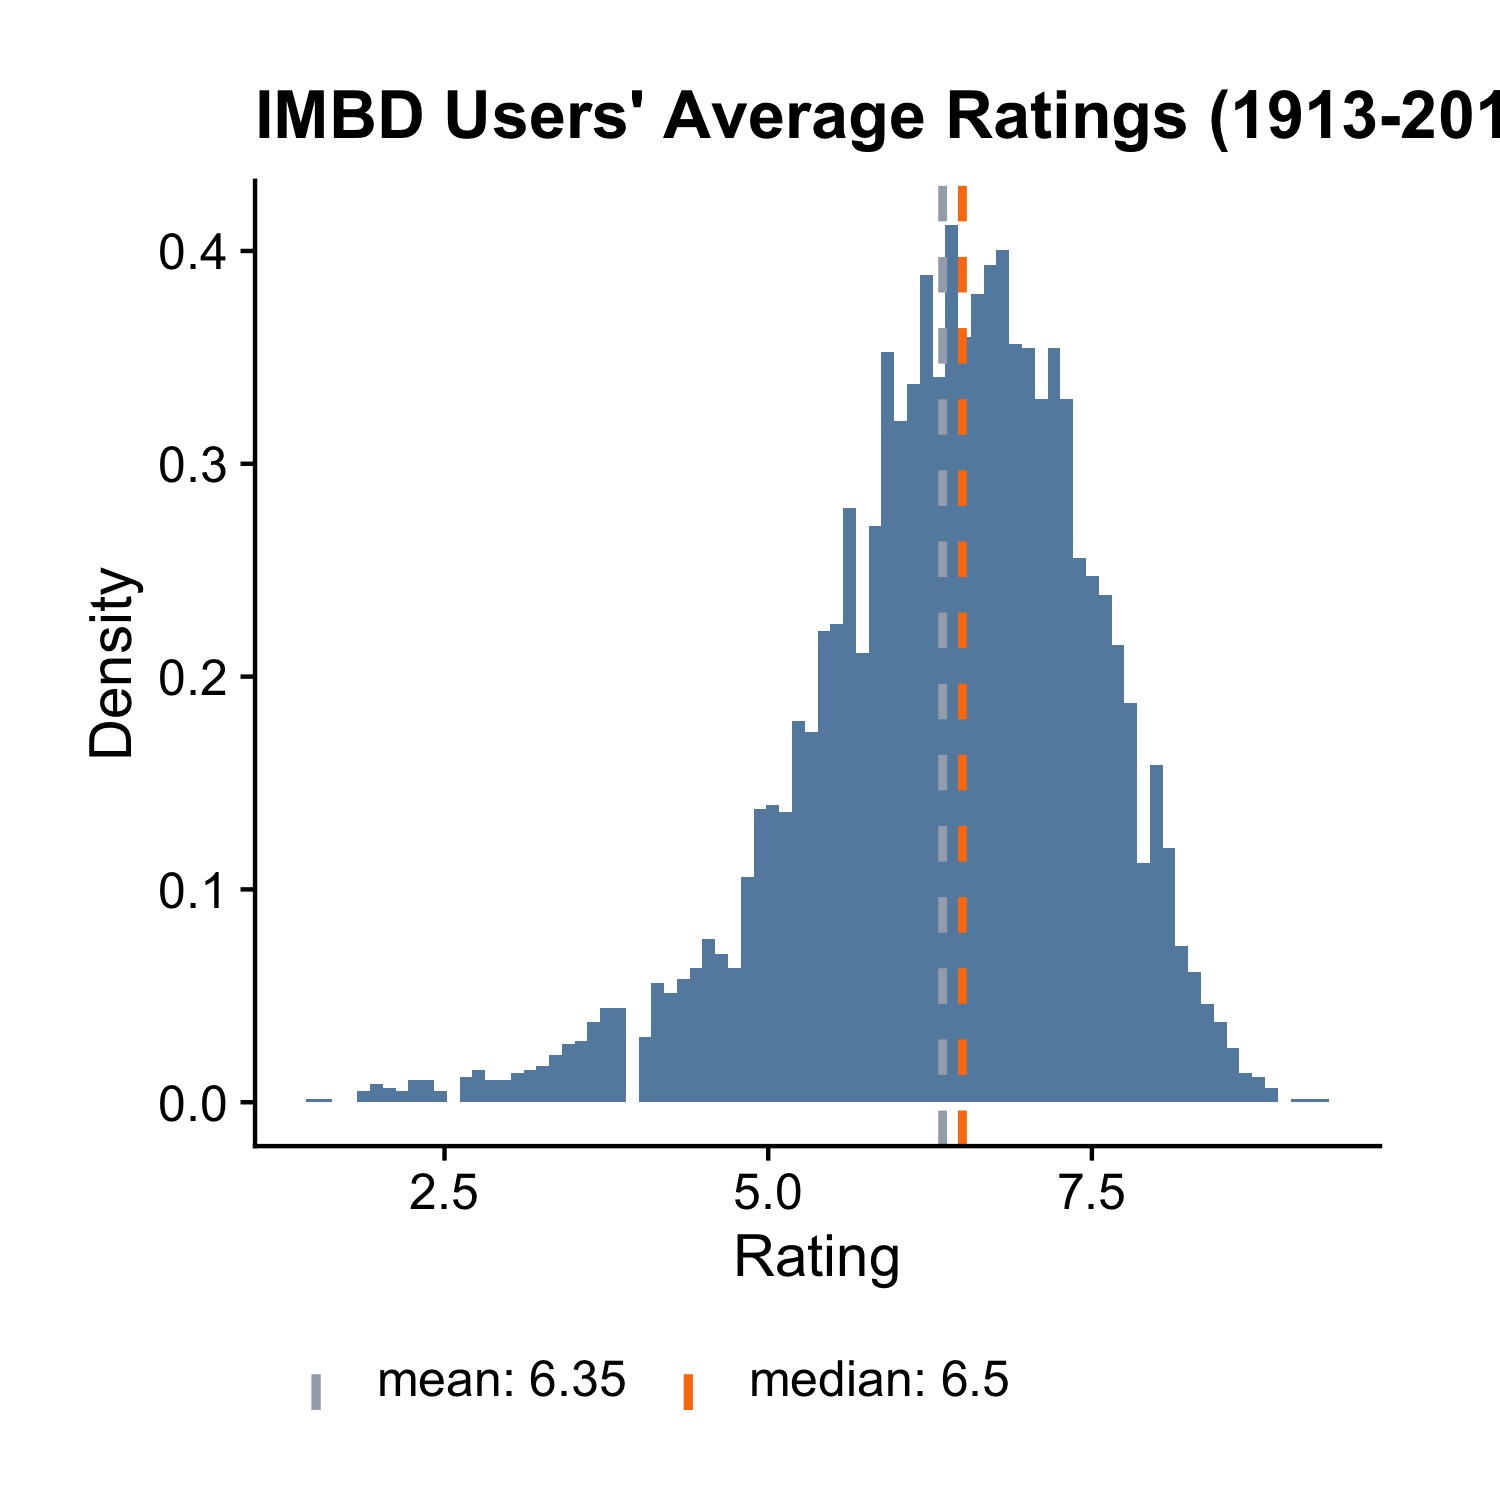
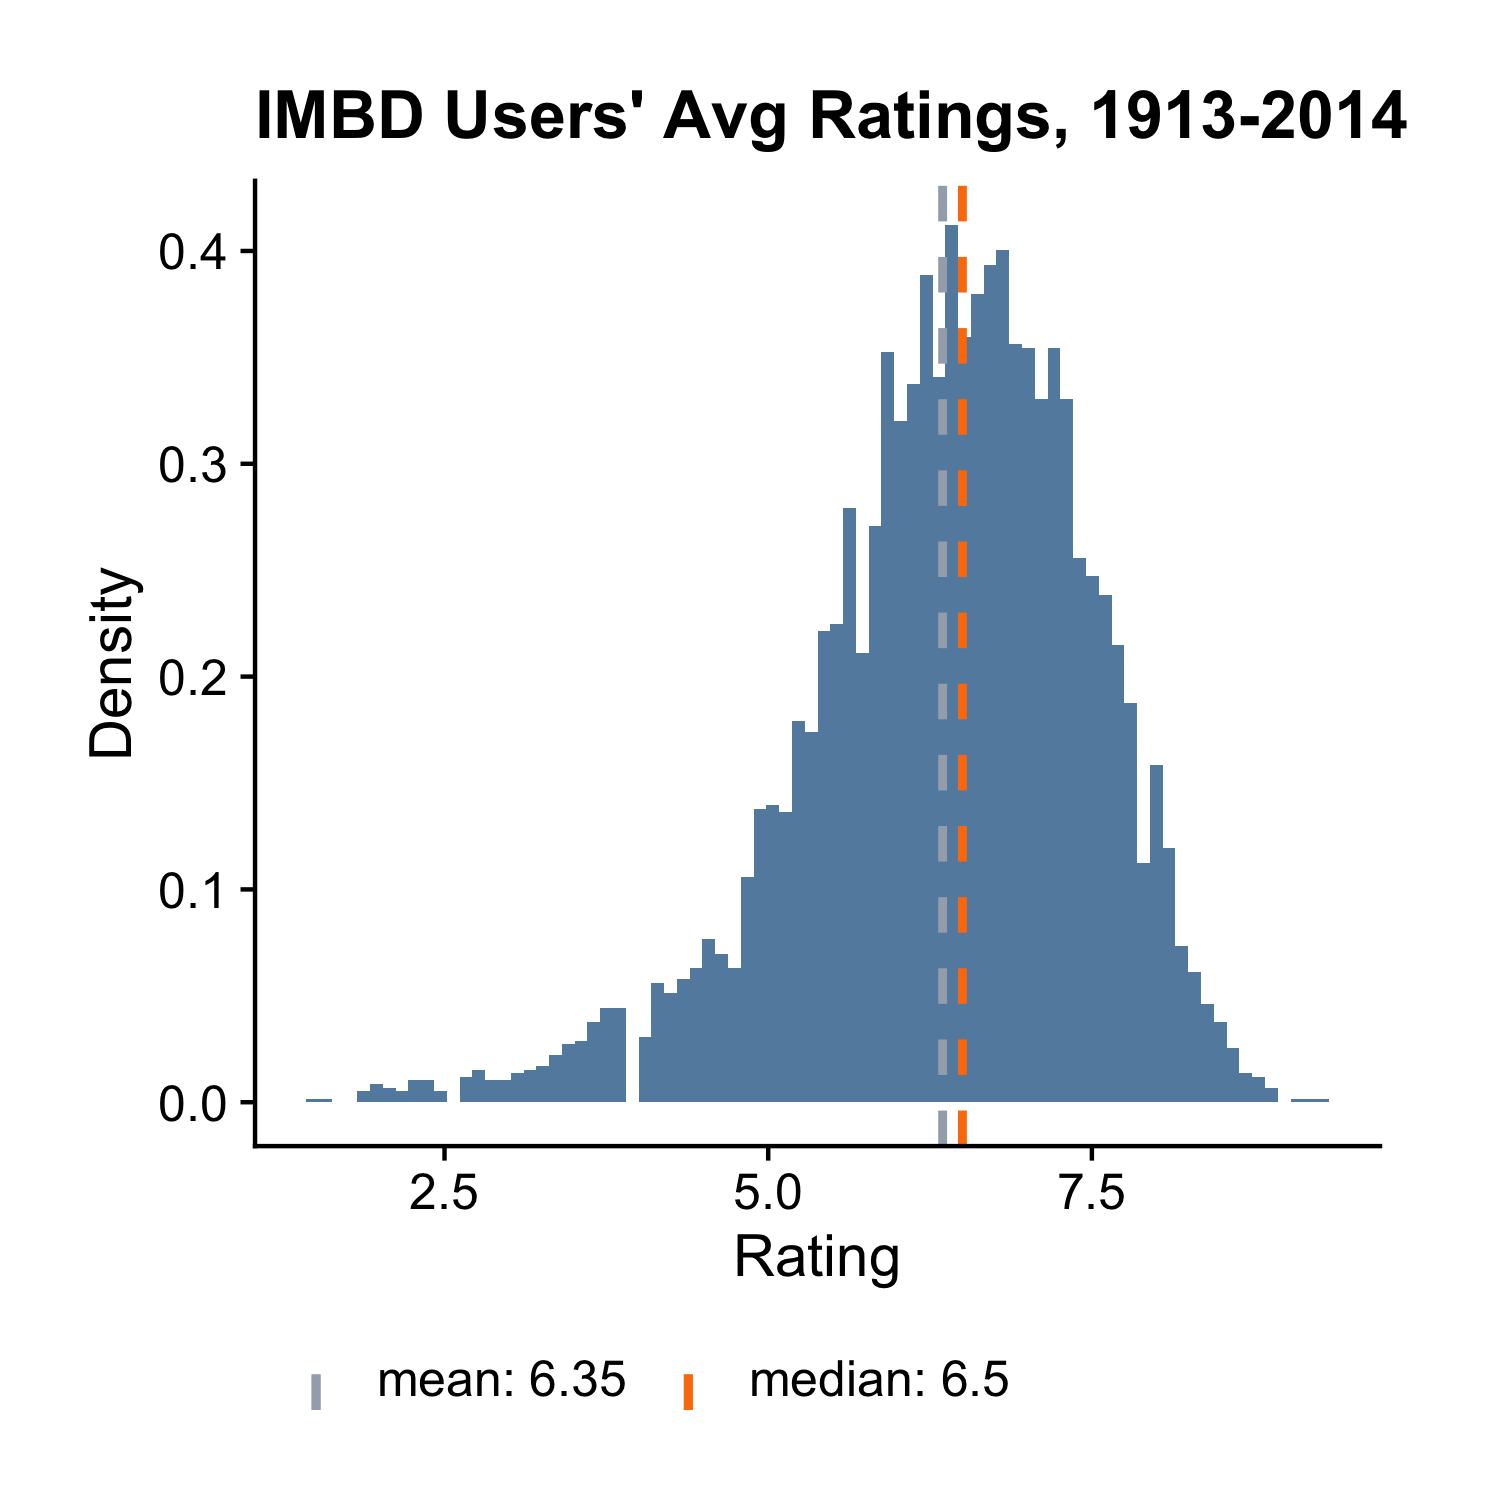
no message

Changed region(s): [[0.4907, 0.0613, 1.0, 0.1227]]

diff --git a/manuscript/02-01-histogram.md b/manuscript/02-01-histogram.md
@@ -18,10 +18,10 @@ The output `num` says that its type is numeric. Looking at the first few data va
 ```r
 plt = mk_histdens(films)
 p = plt("rating", bins = 80, legend_pos = 'bottom') 
-add_labs(p, xlab = "Rating", title = "IMBD Users' Average Ratings (1913-2014)")
+add_labs(p, xlab = "Rating", title = "IMBD Users' Avg Ratings, 1913-2014")
 ```
 
-![plot of chunk hist_rating_p1](images/hist_rating_p1-1.png)
+![](images/hist_rating_p1-1.png)
 
 We first called the function `mk_histdens()` on the data frame `films`, and 
 obtained another function `plt()` in return. We then passed the string `"rating"` into `plt()` to draw the histogram. Note `"rating"` is the name of the variable, not the variable symbol. The object returned by `plt()` is a ggplot2 chart. We passed it into the function `add_labs()` to give it a new x-axis label and title. 
@@ -34,7 +34,7 @@ of each bin, and this will overwrite the number of bins. In practice, I often pl
 plt("rating", binwidth = 0.1, add_vline_median = FALSE, legend_pos = "top") 
 ```
 
-![plot of chunk hist_rating_p2](images/hist_rating_p2-1.png)
+![](images/hist_rating_p2-1.png)
 
 Now I want you to run `?mk_histdens()` and read the documentation. Pay attention to the bullet point `facet_by`.
 
@@ -59,7 +59,7 @@ p = plt("rating", facet_by = "made_money", bins=100, add_vline_mean = F)
 add_labs(p, subtitle = 'Avg. ratings of unrofitable vs. profitable films')
 ```
 
-![plot of chunk hist_rating_by_made_money](images/hist_rating_by_made_money-1.png)
+![](images/hist_rating_by_made_money-1.png)
 
 We see profitable films have a higher median average rating, and it seems
 there're more profitable films (the height of the bottom histogram is higher).

diff --git a/manuscript/02-02-densityplot.md b/manuscript/02-02-densityplot.md
@@ -10,7 +10,7 @@ p = plt("length", type = 'density', legend_pos = 'bottom')
 add_labs(p, xlab = "minutes", title = "Empirical PDF of film length")
 ```
 
-![plot of chunk density_length](images/density_length-1.png)
+![](images/density_length-1.png)
 
 We can also draw two density curves of `length`, one for profitable films and one for unprofitable films, by setting `facet_by = "made_money"`, where `"made_money"` is the name of a categorical variable indicating if a film made money or not.
 
@@ -24,7 +24,7 @@ add_labs(p, xlab = "minutes",
          subtitle = "unprofitable vs. profitable films")
 ```
 
-![plot of chunk density_length_by_made_money](images/density_length_by_made_money-1.png)
+![](images/density_length_by_made_money-1.png)
 
 As another example, let's plot the density of `rating` by `year_cat`.
 
@@ -37,7 +37,7 @@ add_labs(p, xlab = "Rating",
          subtitle = "by different decades")
 ```
 
-![plot of chunk density_rating_by_year_cat](images/density_rating_by_year_cat-1.png)
+![](images/density_rating_by_year_cat-1.png)
 
 For homework, read the document of `mk_histdens()` and run the examples. 
 You can pull up the document by running `?mk_histdens()`. 
